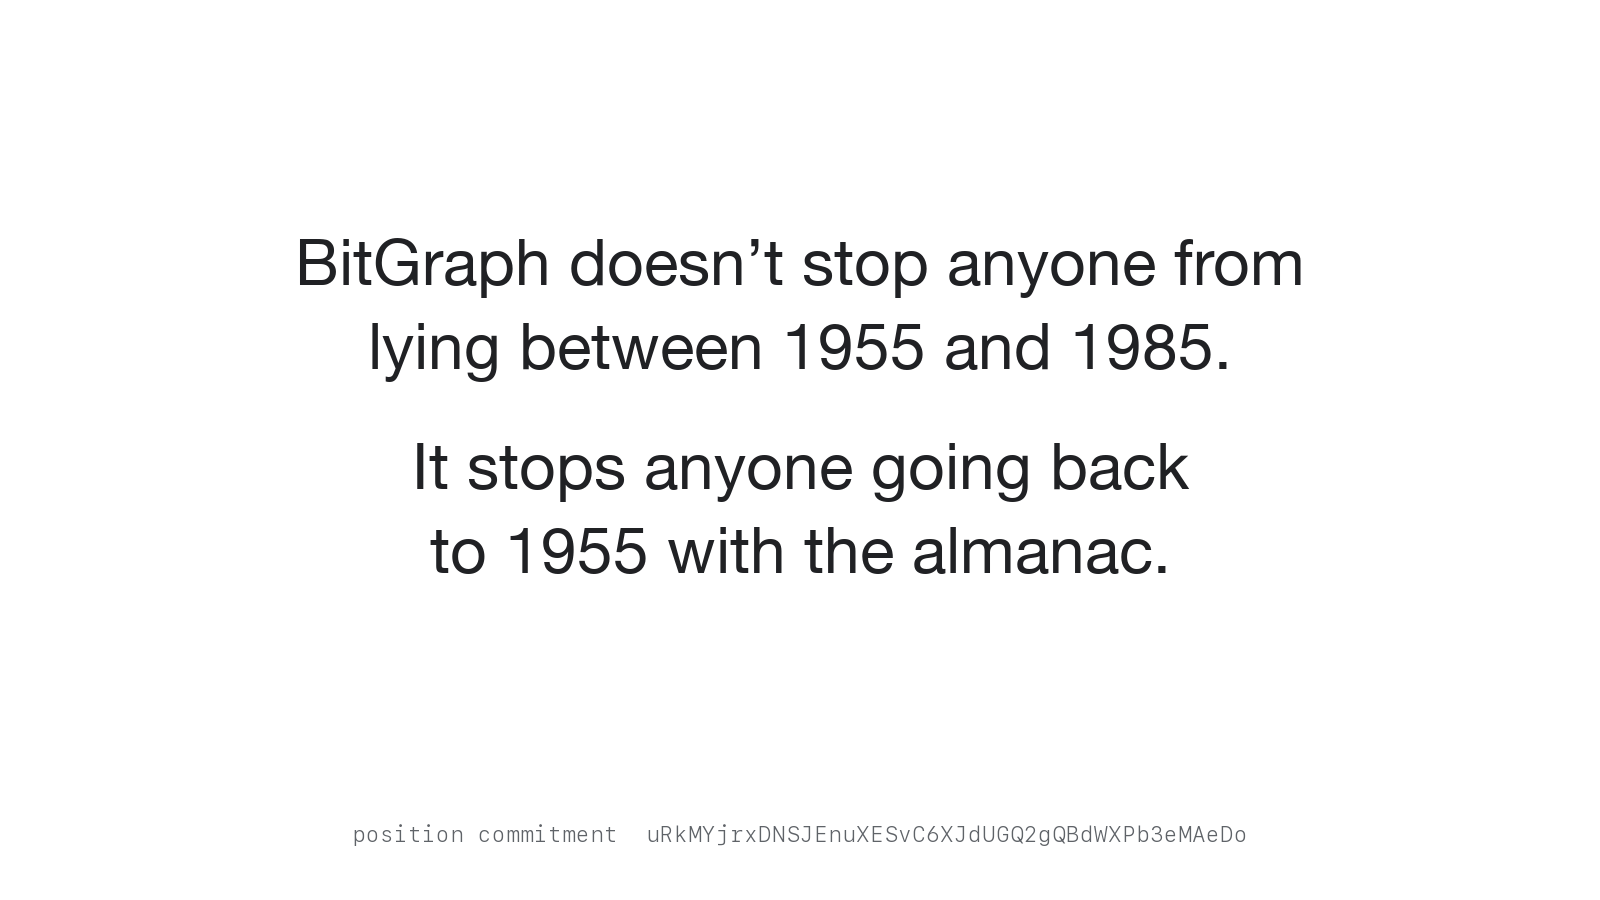
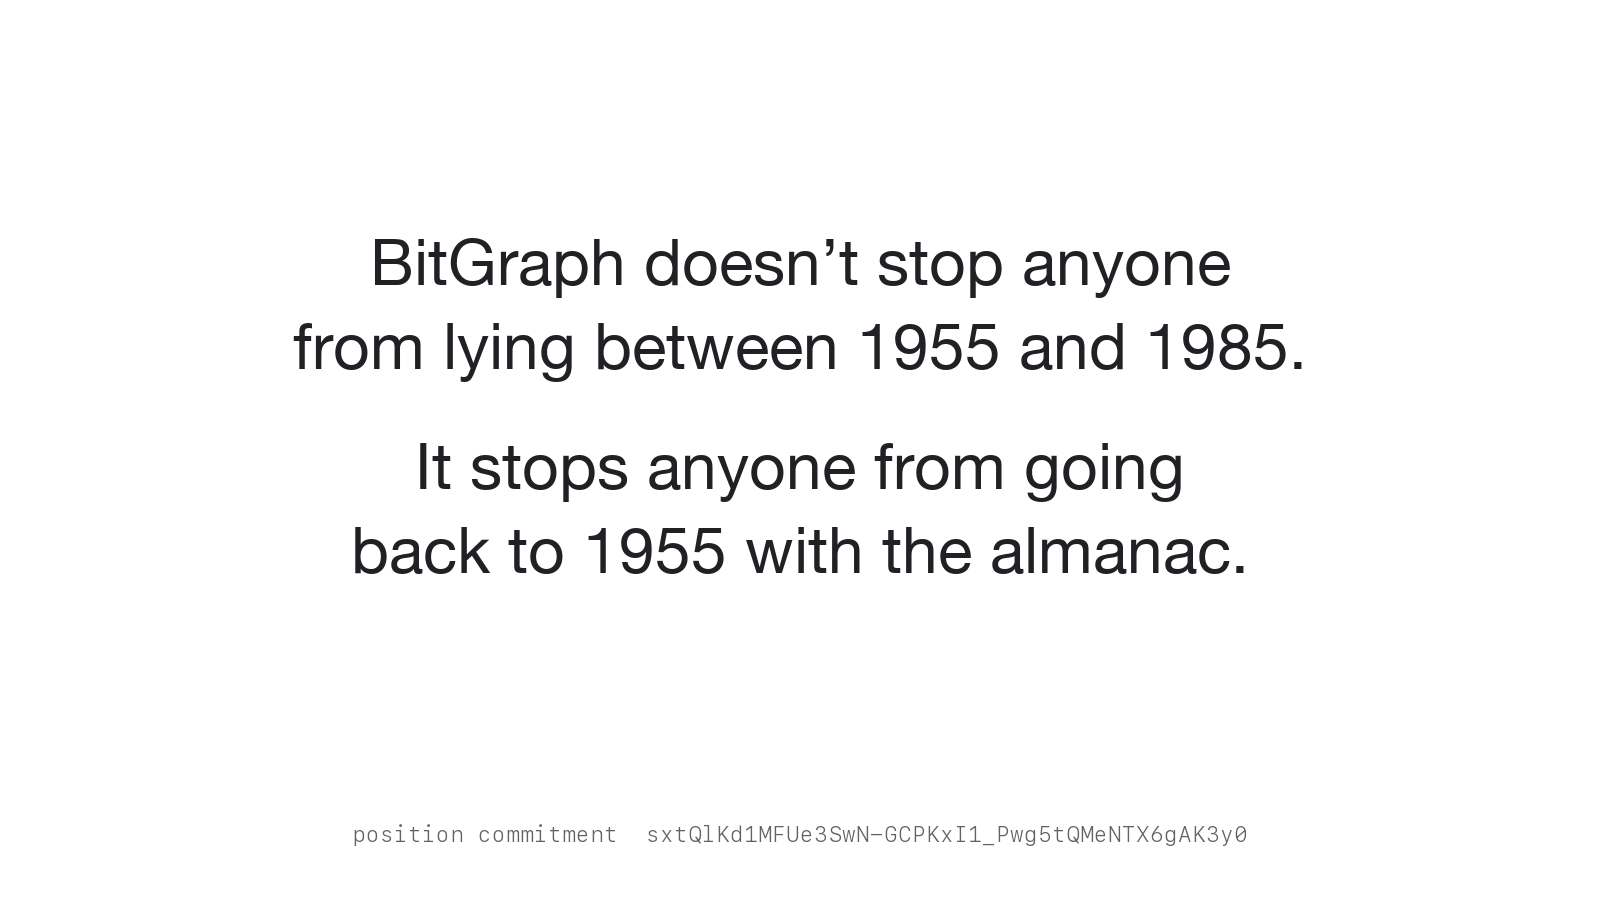
Home example: BitGraph #133, the almanac line in Mike's own line breaks
'BitGraph doesn't stop anyone / from lying between 1955 and 1985. / It stops
anyone from going / back to 1955 with the almanac.' Made inside its own
BitGraph like #129 (commitment drawn at the foot and in a tEXt chunk, then
sealed); Base floor 52,277,665, ceiling 52,277,678; 23 checks hold. The hosted
image and its proof replace #129's at the same paths; drafts #127, #129 and #131
stay on the chain unused.

diff --git a/website/src/lib/warm.ts b/website/src/lib/warm.ts
@@ -92,12 +92,14 @@ export function proofFeedKey(digestParam: string, counter?: string | null, epoch
 
 /** The home page's "See a real BitGraph" target. Its own constant rather than
  *  EXAMPLE_PROOF, which is the ChatGPT image used elsewhere: the home example is
- *  BitGraph #129 (2026-10-07): an image of Mike's line, "BitGraph doesn't stop anyone from
- *  lying between 1955 and 1985. It stops anyone going back to 1955 with the almanac.", made
+ *  BitGraph #133 (2026-10-07): an image of Mike's line, "BitGraph doesn't stop anyone from
+ *  lying between 1955 and 1985. It stops anyone from going back to 1955 with the almanac.", made
  *  INSIDE its BitGraph (bitgraph_open, then the image drawn with the position commitment at
  *  its foot and in a PNG text chunk, then bitgraph_commit): so the picture itself could not
- *  have existed before its BitGraph began. Base floor 52,277,464. (A first draft, #127, has the
- *  same words on three lines; Mike moved 1955 to the last line.) The file is hosted at
+ *  have existed before its BitGraph began. Base floor 52,277,665. Mike's own line breaks:
+ *  "BitGraph doesn't stop anyone / from lying between 1955 and 1985. / It stops anyone from
+ *  going / back to 1955 with the almanac." (Drafts #127, #129 and #131 have earlier breaks and
+ *  wording and stay on the chain unused.) The file is hosted at
  *  /example/bitgraph-almanac.png (EXAMPLE_FILES, keyed by this digest).
  *  Before it: BitGraph #14 (an image from /image, 2026-10-07 morning) and the one-line text
  *  file BitGraph #1,281 (2026-10-05, Ethereum floor).
@@ -106,7 +108,7 @@ export function proofFeedKey(digestParam: string, counter?: string | null, epoch
  *  ?counter/?epoch, so the proof page computes proofFeedKey(digest, null, null).
  *  Warming any other shape stores a response nobody reads, which is exactly the
  *  failure LEDGER_FEED_KEY below was written to stop happening twice. */
-export const HOME_EXAMPLE_DIGEST = "bgH8IddxZ8V_bM9eCU9tJgqaPwKXE2MEoySdEIV1OcQ";
+export const HOME_EXAMPLE_DIGEST = "ZwtodTolAzAcGOIW2UBZfSi2xtZD-i1bdV6Kpu_6KPw";
 
 /** The ledger feed's initial (files-only, no-cursor) URL. This MUST stay byte-
  *  identical to Explorer's `feedUrl()` with its default state, because warm

diff --git a/website/src/app/proof/[digest]/page.tsx b/website/src/app/proof/[digest]/page.tsx
@@ -114,9 +114,9 @@ const EXAMPLE_FILES: Record<string, { path: string; name: string; mime: string }
   [EXAMPLE_PROOF.digest]: { path: "/example/chatgpt.png", name: "chatgpt.png", mime: "image/png" },
   // The previous front-door example; kept so old links still show the photo.
   [PRESTON_PROOF_DIGEST]: { path: "/example/preston.jpg", name: "preston.jpg", mime: "image/jpeg" },
-  // The home page's "See a real BitGraph" since 2026-10-07: BitGraph #129, Mike's almanac line as an image
+  // The home page's "See a real BitGraph" since 2026-10-07: BitGraph #133, Mike's almanac line as an image
   // made inside its own BitGraph (its position commitment is printed at the foot). Keyed by its own digest.
-  "bgH8IddxZ8V_bM9eCU9tJgqaPwKXE2MEoySdEIV1OcQ":
+  "ZwtodTolAzAcGOIW2UBZfSi2xtZD-i1bdV6Kpu_6KPw":
     { path: "/example/bitgraph-almanac.png", name: "bitgraph-almanac.png", mime: "image/png" },
   // The home page's "See a real BitGraph" from 2026-10-05 to 10-07 (Mike: "extremely simple and short"): one
   // line, "This file was recorded with BitGraph.", a tree/1 of one (BitGraph #1,281, container/2). Pinned to
